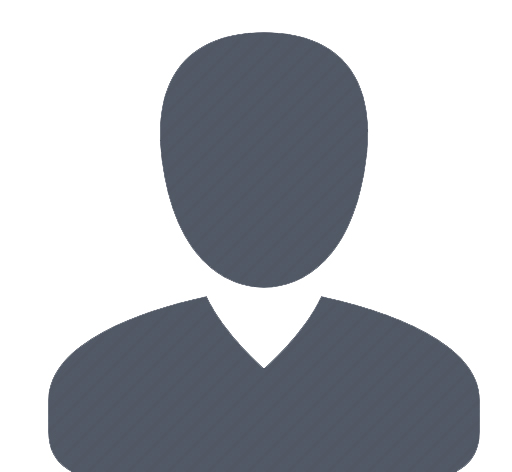
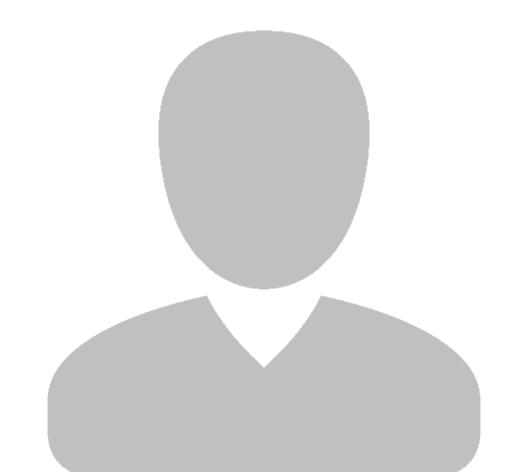
sdfsdf

diff --git a/src/app/pages/support/support.html b/src/app/pages/support/support.html
@@ -1,7 +1,8 @@
 <ion-header>
   <ion-toolbar>
     <ion-buttons slot="start">
-      <ion-menu-button></ion-menu-button>
+      <ion-back-button icon="chevron-back-outline" defaultHref="/app/tabs/dashboard">
+    </ion-back-button>
     </ion-buttons>
     <ion-title>{{'support' | translate}}</ion-title>
   </ion-toolbar>
@@ -17,7 +18,7 @@
     <ion-list lines="none">
       <ion-item>
         <ion-label position="stacked" color="primary">{{'enter_support_message' | translate}}</ion-label>
-        <ion-textarea [(ngModel)]="supportMessage" name="supportQuestion" #supportQuestion="ngModel" rows="6" required></ion-textarea>
+        <ion-textarea  class="ion-margin-top" [(ngModel)]="supportMessage" name="supportQuestion" #supportQuestion="ngModel" rows="6" required></ion-textarea>
       </ion-item>
     </ion-list>
 
@@ -28,11 +29,11 @@
     </ion-text>
 
     <div class="ion-padding">
-      <ion-button expand="block" type="submit">{{'submit' | translate}}</ion-button>
+      <ion-button expand="block" type="submit" shape="round">{{'submit' | translate}}</ion-button>
     </div>
   </form>
 
-  <ion-list>
+  <ion-list class="ion-margin-horizontal">
     @for (ticket of tickets; track ticket) {
       <ion-item lines="none">
         <ion-grid>

diff --git a/src/app/pages/meeting-transactions/pages/settlement/settlement.component.html b/src/app/pages/meeting-transactions/pages/settlement/settlement.component.html
@@ -36,12 +36,12 @@
         <h5>{{ acc?.owner }}</h5>
       </div>
       <p class="detail-header" (click)="acc.show_details = !acc.show_details">
-        <span>@if((acc?.totals?.credit - acc?.totals?.debit)){ + } {{(acc?.totals?.credit - acc?.totals?.debit) | number:'.0'}} {{country.currency}}</span>
+        <span>@if((acc?.totals?.credit - acc?.totals?.debit) > 0){ + } {{(acc?.totals?.credit - acc?.totals?.debit) | number:'.0'}} {{country.currency}}</span>
       </p>
       @if(acc.show_details){
       <div class="cash-details">
         <p class="text-12"><ion-icon name="add-circle" color="success"></ion-icon>{{'pays_cash' | translate}}: {{acc?.totals?.credit | number:'.0'}} {{country.currency}}</p>
-        <p class="text-12"><ion-icon name="checkmark-circle" color="primary"></ion-icon>{{'receives_cash' | translate}}: {{acc?.totals?.debit | number:'.0'}} {{country.currency}}</p>
+        <p class="text-12"><ion-icon name="remove-circle" color="primary"></ion-icon>{{'receives_cash' | translate}}: {{acc?.totals?.debit | number:'.0'}} {{country.currency}}</p>
       </div>
       }
     </ion-label>

diff --git a/src/app/pages/profile/profile.page.html b/src/app/pages/profile/profile.page.html
@@ -12,15 +12,15 @@
   <div class="profile-header ion-text-center">
     <div class="avatar-container">
       @if (!user.photo) {
-        <img src="https://www.gravatar.com/avatar?d=mm&s=140" alt="avatar">
+        <img src="assets/img/avatar.png" alt="avatar">
       }
       @if (user.photo) {
         <img [src]="user.photo" alt="avatar">
       }
     </div>
-    <ion-button fill="clear" size="small" class="change-photo-btn" disabled>
+    <!--<ion-button fill="clear" size="small" class="change-photo-btn" disabled>
       {{'change_profile_photo' | translate}}
-    </ion-button>
+    </ion-button>-->
   </div>
 
   <div class="details-section">

diff --git a/src/app/pages/accounts/accounts.page.ts b/src/app/pages/accounts/accounts.page.ts
@@ -247,7 +247,7 @@ export class AccountsPage implements OnInit {
             information: info,
             badge: badge,
             image: 'assets/img/action-views/'+ group_health +'-group.png',
-            hasBackButton: true,
+            hasBackButton: false,
             buttons: [{text: 'messages.accounts.view_members_details', color: 'primary'}]
           },
           cssClass: ''

diff --git a/src/app/pages/tabs-page/tabs-page-routing.module.ts b/src/app/pages/tabs-page/tabs-page-routing.module.ts
@@ -53,15 +53,6 @@ const routes: Routes = [
           },
         ]
       },
-/*      {
-        path: 'notifications/:data',
-        children: [
-          {
-            path: '',
-            loadChildren: () => import('../notifications/notifications.module').then(m => m.NotificationsPageModule)
-          }
-        ]
-      },*/
       {
         path: 'about',
         children: [

diff --git a/src/app/pages/support/support.scss b/src/app/pages/support/support.scss
@@ -1,3 +1,11 @@
+ion-textarea {
+  --background: #f7f7f7 !important;
+  background: #f7f7f7;
+  border-radius: 10px;
+  padding: 5px;
+  padding-top: 0px !important;
+}
+
 .support-logo {
   padding: 20px 0;
   text-align: center;

diff --git a/src/app/pages/profile/profile.page.ts b/src/app/pages/profile/profile.page.ts
@@ -145,6 +145,7 @@ export class ProfilePage implements OnInit {
   }
 
   openSupport(){
+    this.dismiss();
     this.router.navigateByUrl('/support');
   }
 
